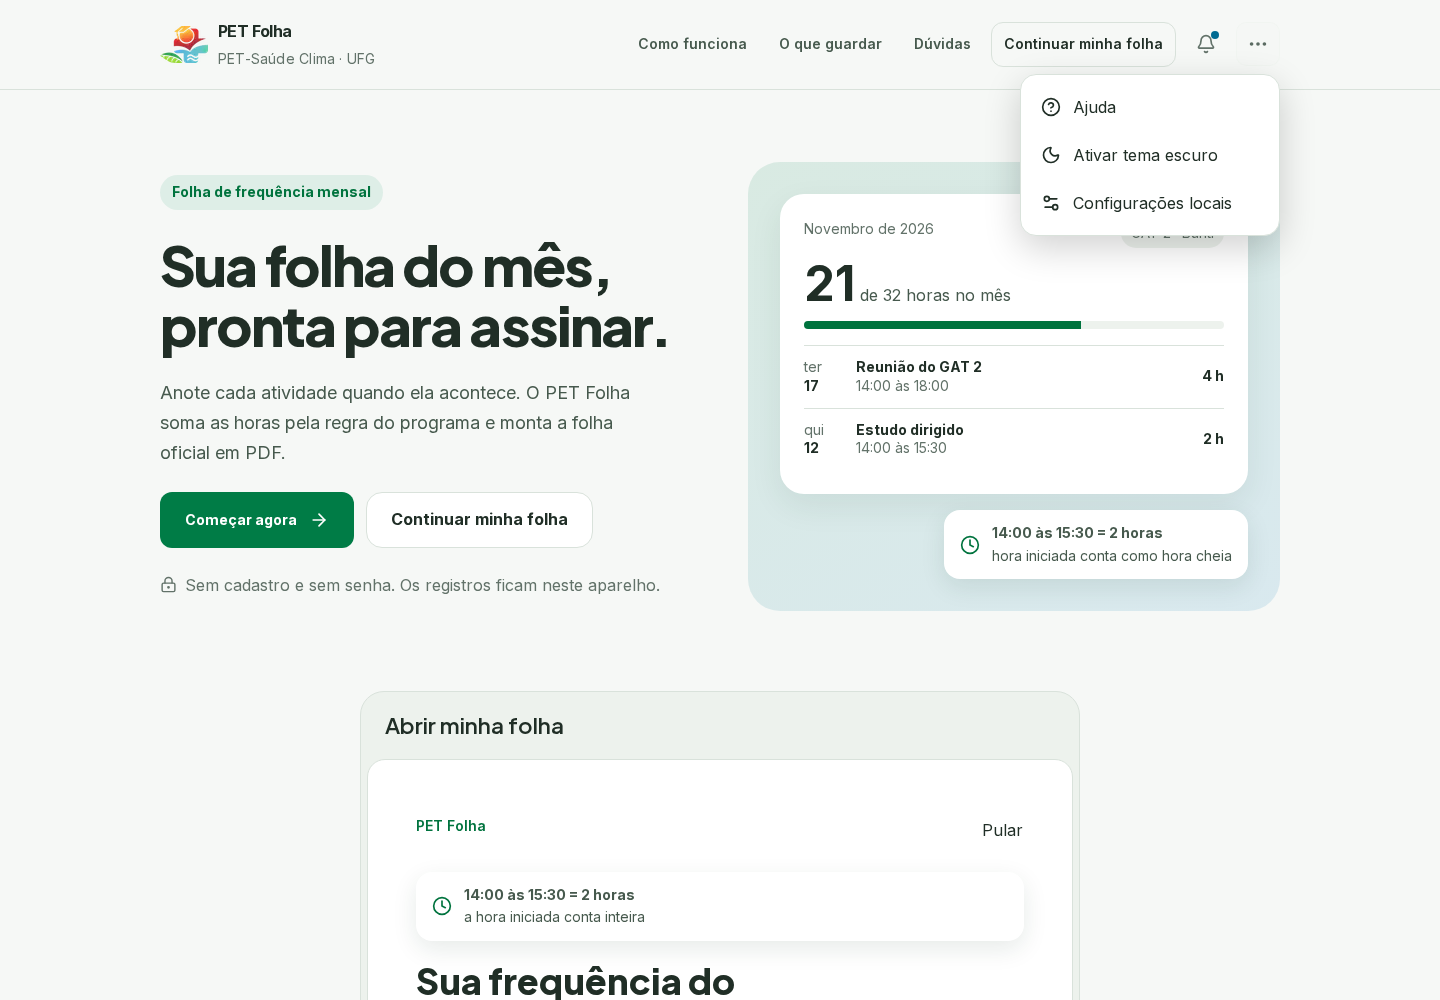
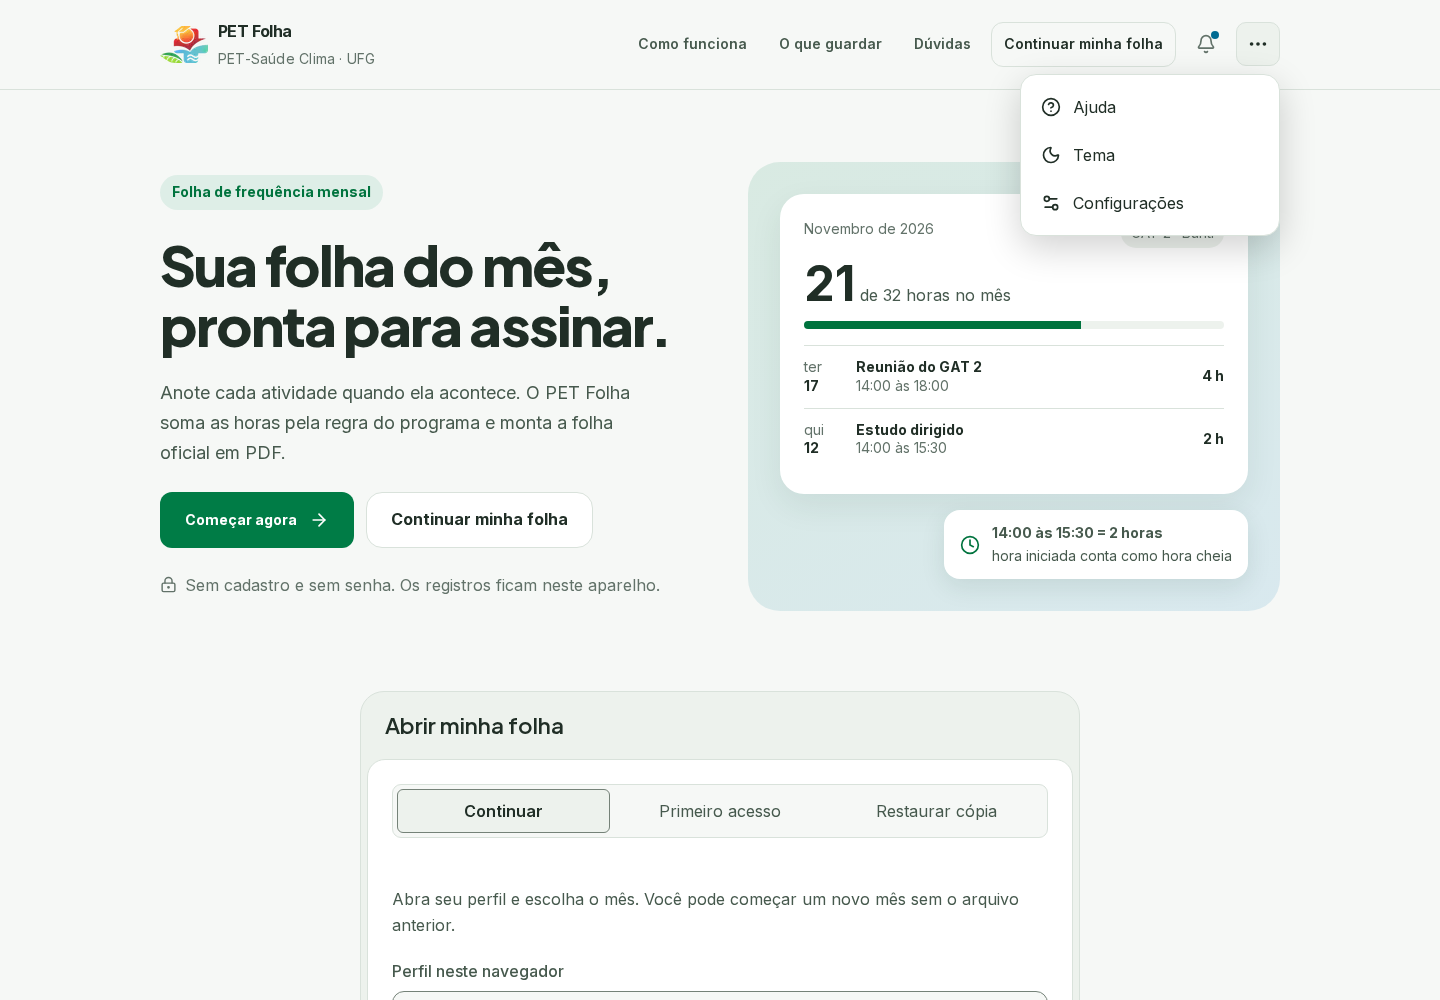
fix(ui): simplificar rótulos de tema e configurações

diff --git a/src/components/Navbar.tsx b/src/components/Navbar.tsx
@@ -75,7 +75,7 @@ export function Navbar(props: NavbarProps) {
           <div className="profile-identity"><span className="avatar">{initials(user.name)}</span><div><strong>{user.name}</strong><small>{user.email || `${user.role} · GAT ${user.gatNumber}`}</small></div></div>
           <div role="menu" aria-label="Perfil"><button role="menuitem" onClick={() => menuAction(onOpenProfileModal)}><User size={18} />Meu perfil</button><button role="menuitem" onClick={() => menuAction(onOpenSheets)}><FileText size={18} />Minhas folhas</button></div>
           <div className="profile-theme"><p>Tema</p><ThemeSelector /></div>
-          <div role="menu" aria-label="Suporte e saída"><button role="menuitem" onClick={() => menuAction(onOpenHelp)}><CircleHelp size={18} />Ajuda e suporte</button><button role="menuitem" onClick={() => menuAction(onOpenAdmin)}><Settings2 size={18} />Configurações locais</button><button role="menuitem" onClick={() => menuAction(onOpenExitModal)}><LogOut size={18} />Sair</button></div>
+          <div role="menu" aria-label="Suporte e saída"><button role="menuitem" onClick={() => menuAction(onOpenHelp)}><CircleHelp size={18} />Ajuda e suporte</button><button role="menuitem" onClick={() => menuAction(onOpenAdmin)}><Settings2 size={18} />Configurações</button><button role="menuitem" onClick={() => menuAction(onOpenExitModal)}><LogOut size={18} />Sair</button></div>
         </div>
       </div>
     </aside>
@@ -91,5 +91,5 @@ export function Navbar(props: NavbarProps) {
 }
 
 export function AccountScreen({ user, onBack, onProfile, onSheets, onHelp, onAdmin, onExit, onRestore }: { user: UserProfile; onBack: () => void; onProfile: () => void; onSheets: () => void; onHelp: () => void; onAdmin: () => void; onExit: () => void; onRestore: () => void }) {
-  return <section className="account-screen"><header><button className="icon-button" onClick={onBack} aria-label="Voltar à frequência"><ArrowLeft size={22} /></button><h1>Conta</h1></header><div className="account-card profile-identity"><span className="avatar">{initials(user.name)}</span><div><strong>{user.name}</strong>{user.email && <small>{user.email}</small>}<small>{user.role} · GAT {user.gatNumber} · {user.gatName}</small></div></div><div className="account-card">{[{label:"Meu perfil", Icon:User, action:onProfile}, {label:"Minhas folhas", Icon:FileText, action:onSheets}, {label:"Restaurar cópia", Icon:Upload, action:onRestore}].map(({label,Icon,action}) => <button key={label} onClick={action}><Icon size={20}/>{label}<ChevronRight size={18}/></button>)}</div><div className="account-card account-theme"><h2>Tema</h2><ThemeSelector /></div><div className="account-card"><button onClick={onHelp}><CircleHelp size={20}/>Ajuda e suporte<ChevronRight size={18}/></button><button onClick={onAdmin}><Settings2 size={20}/>Configurações locais<ChevronRight size={18}/></button></div><button className="secondary-button account-exit" onClick={onExit}><LogOut size={20}/>Sair</button></section>;
+  return <section className="account-screen"><header><button className="icon-button" onClick={onBack} aria-label="Voltar à frequência"><ArrowLeft size={22} /></button><h1>Conta</h1></header><div className="account-card profile-identity"><span className="avatar">{initials(user.name)}</span><div><strong>{user.name}</strong>{user.email && <small>{user.email}</small>}<small>{user.role} · GAT {user.gatNumber} · {user.gatName}</small></div></div><div className="account-card">{[{label:"Meu perfil", Icon:User, action:onProfile}, {label:"Minhas folhas", Icon:FileText, action:onSheets}, {label:"Restaurar cópia", Icon:Upload, action:onRestore}].map(({label,Icon,action}) => <button key={label} onClick={action}><Icon size={20}/>{label}<ChevronRight size={18}/></button>)}</div><div className="account-card account-theme"><h2>Tema</h2><ThemeSelector /></div><div className="account-card"><button onClick={onHelp}><CircleHelp size={20}/>Ajuda e suporte<ChevronRight size={18}/></button><button onClick={onAdmin}><Settings2 size={20}/>Configurações<ChevronRight size={18}/></button></div><button className="secondary-button account-exit" onClick={onExit}><LogOut size={20}/>Sair</button></section>;
 }

diff --git a/src/components/LandingPage.tsx b/src/components/LandingPage.tsx
@@ -118,8 +118,8 @@ export function LandingPage({
               onBeforeToggle={(event) => { if (event.newState === "open") positionOptions(); }}
               onToggle={(event) => setOptionsOpen(event.newState === "open")}>
               <button type="button" onClick={() => optionsAction(() => setHelpOpen(true))}><HelpCircle size={20} aria-hidden="true" />Ajuda</button>
-              <button type="button" onClick={() => optionsAction(toggleTheme)}>{theme === "dark" ? <Sun size={20} aria-hidden="true" /> : <Moon size={20} aria-hidden="true" />}{theme === "dark" ? "Ativar tema claro" : "Ativar tema escuro"}</button>
-              <button type="button" onClick={() => optionsAction(onOpenAdmin)}><Settings2 size={20} aria-hidden="true" />Configurações locais</button>
+              <button type="button" aria-pressed={theme === "dark"} onClick={() => optionsAction(toggleTheme)}>{theme === "dark" ? <Sun size={20} aria-hidden="true" /> : <Moon size={20} aria-hidden="true" />}Tema</button>
+              <button type="button" onClick={() => optionsAction(onOpenAdmin)}><Settings2 size={20} aria-hidden="true" />Configurações</button>
             </div>
           </nav>
         </div>

diff --git a/tests/e2e/redesign.spec.ts b/tests/e2e/redesign.spec.ts
@@ -314,8 +314,8 @@ test("opções da entrada são acessíveis por teclado", async ({ page }) => {
   await page.keyboard.press("Enter");
   const panel = page.getByRole("region", { name: "Mais opções" });
   await expect(panel.getByRole("button", { name: "Ajuda", exact: true })).toBeVisible();
-  await expect(panel.getByRole("button", { name: /Ativar tema/ })).toBeVisible();
-  await expect(panel.getByRole("button", { name: "Configurações locais" })).toBeVisible();
+  await expect(panel.getByRole("button", { name: "Tema", exact: true })).toBeVisible();
+  await expect(panel.getByRole("button", { name: "Configurações" })).toBeVisible();
   await page.keyboard.press("Escape");
   await expect(panel).toBeHidden();
   await expect(trigger).toBeFocused();

diff --git a/src/components/AdminModal.tsx b/src/components/AdminModal.tsx
@@ -474,7 +474,7 @@ export function AdminModal({
   };
 
   return (
-    <Modal isOpen={isOpen} onClose={handleClose} label="Configurações locais">
+    <Modal isOpen={isOpen} onClose={handleClose} label="Configurações">
       <div
         className="w-full max-w-4xl rounded-2xl sm:rounded-3xl border border-line bg-surface shadow-[var(--page-shadow)] flex flex-col max-h-[92dvh] overflow-hidden"
         onClick={(e) => e.stopPropagation()}

diff --git a/docs/validation/comprovantes-deslop-20261112/README.md b/docs/validation/comprovantes-deslop-20261112/README.md
@@ -64,6 +64,13 @@ sincroniza o estado atual ao montar, além de acompanhar as próximas mudanças.
 - [Cabeçalho da entrada](entrada.png)
 - [Cabeçalho da entrada no celular](entrada-celular.png)
 
+## Rótulos finais
+
+Tema substitui Ativar tema claro/escuro no menu da entrada. Configurações
+substitui Configurações locais nos menus e no nome acessível da janela.
+Tipagem, build e lint direcionado passaram. Os dois testes de teclado do menu
+passaram novamente em desktop e celular. As capturas foram atualizadas.
+
 ## Limites
 
 Chromium desktop e celular emulado. Homologação em aparelho físico, leitor de tela
